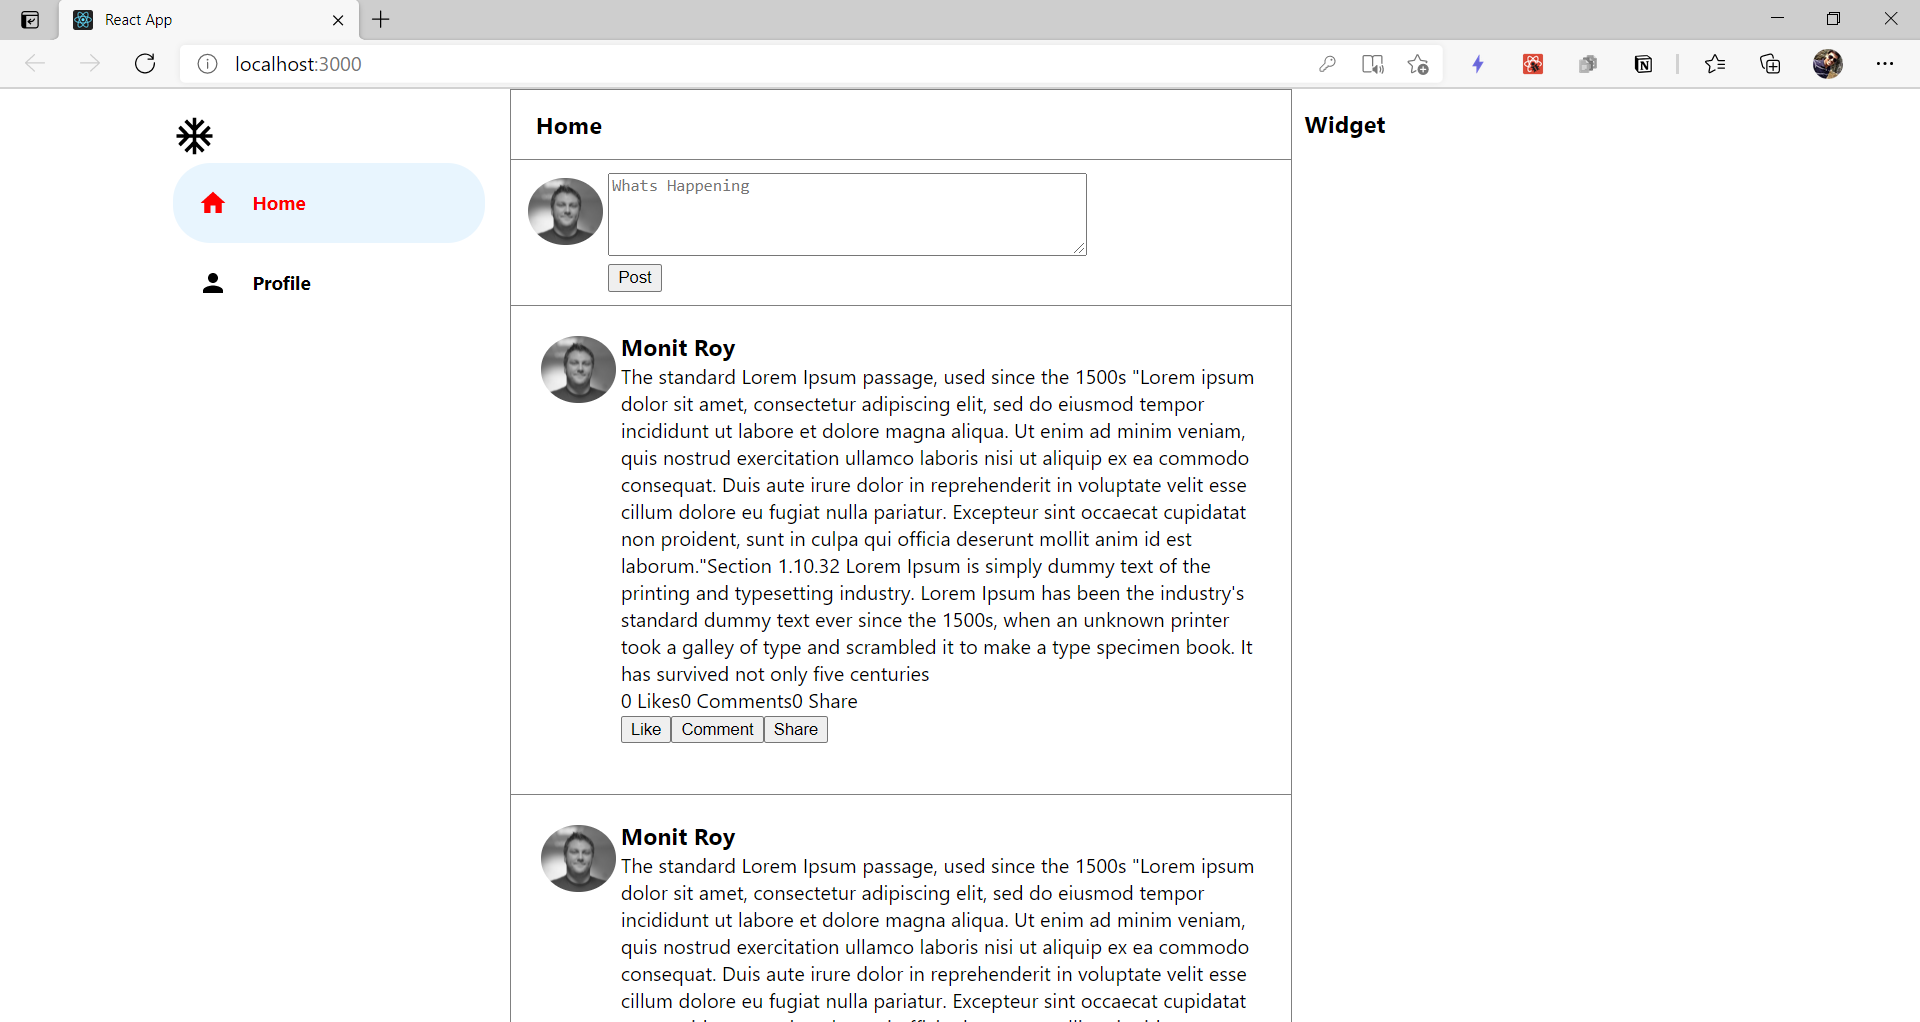
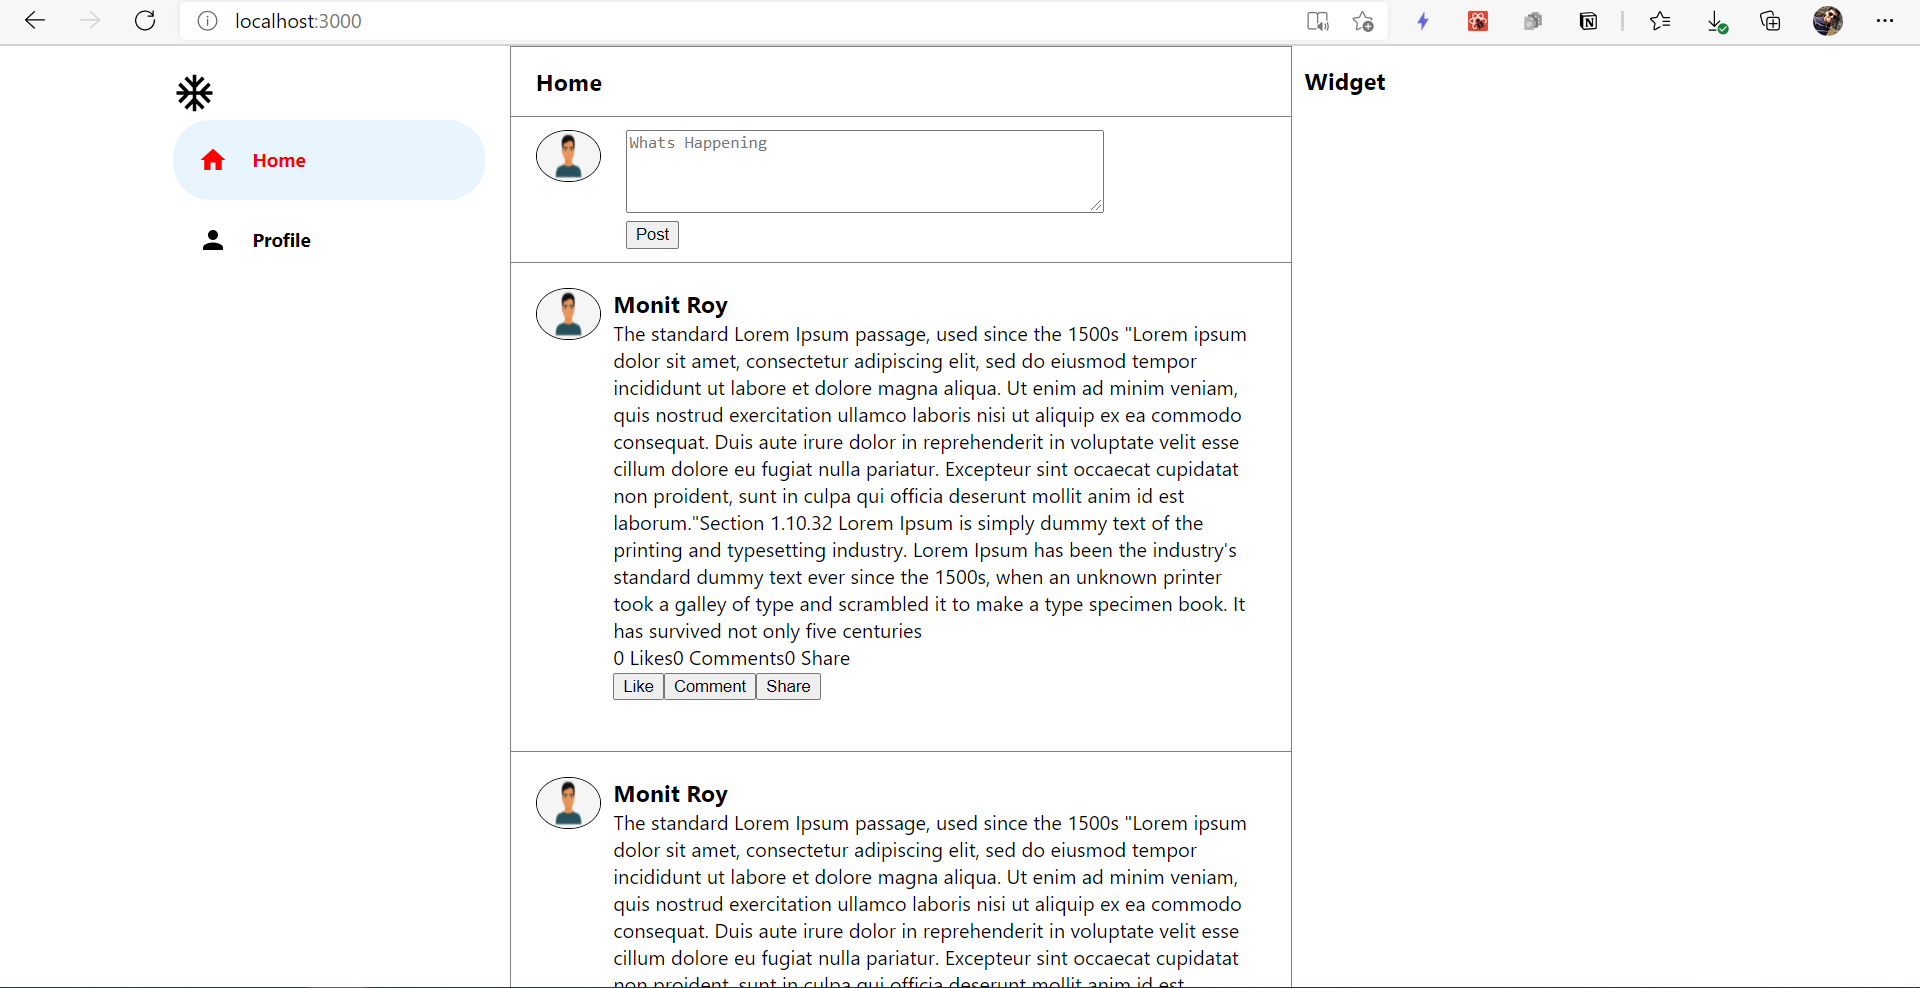
Profile Photo updated with css

Changed region(s): [[0.0, 0.0, 1.0, 0.7287], [0.2812, 0.7591, 0.6562, 1.0], [0.5312, 0.2429, 0.5625, 0.2733]]

diff --git a/src/component/WritePost/WritePost.module.css b/src/component/WritePost/WritePost.module.css
@@ -5,7 +5,10 @@
 }
 
 .img {
+  border: 1px solid black;
   border-radius: 50%;
-  width: 60px;
-  padding: 4px;
+  width: 50px;
+  height: 40px;
+  margin-right: 20px;
+  margin-left: 10px;
 }

diff --git a/src/component/NewPost/NewPost.module.css b/src/component/NewPost/NewPost.module.css
@@ -10,7 +10,9 @@
 }
 
 .img {
+  border: 1px solid black;
   border-radius: 50%;
-  width: 60px;
-  padding: 4px;
+  width: 50px;
+  height: 40px;
+  margin-right: 10px;
 }

diff --git a/README.md b/README.md
@@ -6,4 +6,4 @@ It is react app, it has User interface inspired from Twitter
 
 Screenshots of Unite-App
 
-<img src "screenshots/unite.png" alt = 'front_page' width = '800' height = '500'/>
+<img src = "screenshots/unite.png" alt = 'front_page' width = '800' height = '500'/>
